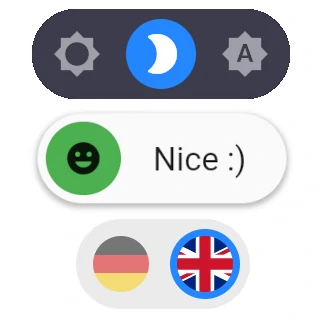
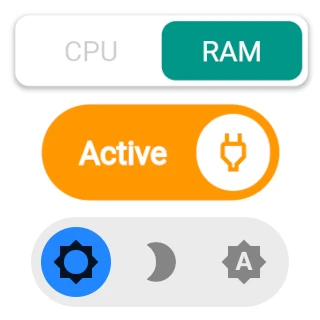
updates preview image

diff --git a/example/lib/main.dart b/example/lib/main.dart
@@ -14,7 +14,7 @@ class MyApp extends StatelessWidget {
   Widget build(BuildContext context) {
     return MaterialApp(
       title: 'AnimatedToggleSwitch Demo',
-      theme: ThemeData(),
+      theme: ThemeData(scaffoldBackgroundColor: Colors.white),
       home: MyHomePage(title: 'Example'),
     );
   }
@@ -226,6 +226,44 @@ class _MyHomePageState extends State<MyHomePage> {
                         : Center(child: Text('Nice :)')),
                   ),
                 ),
+              ),
+              SizedBox(height: 16.0),
+              AnimatedToggleSwitch<bool>.dual(
+                current: positive,
+                first: false,
+                second: true,
+                dif: 45.0,
+                animationCurve: Curves.easeInOut,
+                animationDuration: const Duration(milliseconds: 600),
+                style: ToggleStyle(
+                  borderColor: Colors.transparent,
+                  indicatorColor: Colors.white,
+                  backgroundColor: Colors.amber,
+                ),
+                styleBuilder: (value) => ToggleStyle(
+                    backgroundColor: value ? Colors.orange : Colors.red[800]),
+                borderWidth: 6.0,
+                height: 60.0,
+                loadingIconBuilder: (context, global) =>
+                    CupertinoActivityIndicator(
+                        color: Color.lerp(
+                            Colors.red[800], Colors.orange, global.position)),
+                onChanged: (b) {
+                  setState(() => positive = b);
+                  return Future<dynamic>.delayed(Duration(seconds: 2));
+                },
+                iconBuilder: (value) => value
+                    ? Icon(Icons.power_outlined, color: Colors.orange, size: 32.0)
+                    : Icon(Icons.power_settings_new_rounded,
+                        color: Colors.red[800], size: 32.0),
+                textBuilder: (value) => Center(
+                        child: Text(
+                        value ? 'Active' : 'Inactive',
+                        style: const TextStyle(
+                            color: Colors.white,
+                            fontSize: 20.0,
+                            fontWeight: FontWeight.w600),
+                      )),
               ),
               Padding(
                 padding: const EdgeInsets.all(8.0),
@@ -544,6 +582,35 @@ class _MyHomePageState extends State<MyHomePage> {
                 styleBuilder: (i) =>
                     ToggleStyle(indicatorColor: colorBuilder(i)),
                 onChanged: (i) => setState(() => value = i),
+              ),
+              const SizedBox(height: 16.0),
+              AnimatedToggleSwitch<bool>.size(
+                current: positive,
+                values: const [false, true],
+                iconOpacity: 0.2,
+                indicatorSize: const Size.fromWidth(100),
+                customIconBuilder: (context, local, global) => Text(
+                    local.value ? 'RAM' : 'CPU',
+                    style: TextStyle(
+                        color: Color.lerp(
+                            Colors.black, Colors.white, local.animationValue))),
+                borderWidth: 4.0,
+                iconAnimationType: AnimationType.onHover,
+                style: ToggleStyle(
+                  indicatorColor: Colors.teal,
+                  borderColor: Colors.transparent,
+                  borderRadius: BorderRadius.circular(10.0),
+                  boxShadow: [
+                    BoxShadow(
+                      color: Colors.black26,
+                      spreadRadius: 1,
+                      blurRadius: 2,
+                      offset: Offset(0, 1.5),
+                    ),
+                  ],
+                ),
+                selectedIconScale: 1.0,
+                onChanged: (b) => setState(() => positive = b),
               ),
               Padding(
                 padding: const EdgeInsets.all(8.0),

diff --git a/lib/src/widgets/animated_toggle_switch.dart b/lib/src/widgets/animated_toggle_switch.dart
@@ -1001,7 +1001,7 @@ class AnimatedToggleSwitch<T> extends StatelessWidget {
       DetailedGlobalToggleProperties<T> global) {
     return Opacity(
         opacity: 1.0 - global.loadingAnimationValue,
-        child: animatedIconBuilder!(context, local, global));
+        child: Center(child: animatedIconBuilder!(context, local, global)));
   }
 
   Widget _animatedSizeIcon(BuildContext context, LocalToggleProperties<T> local,
